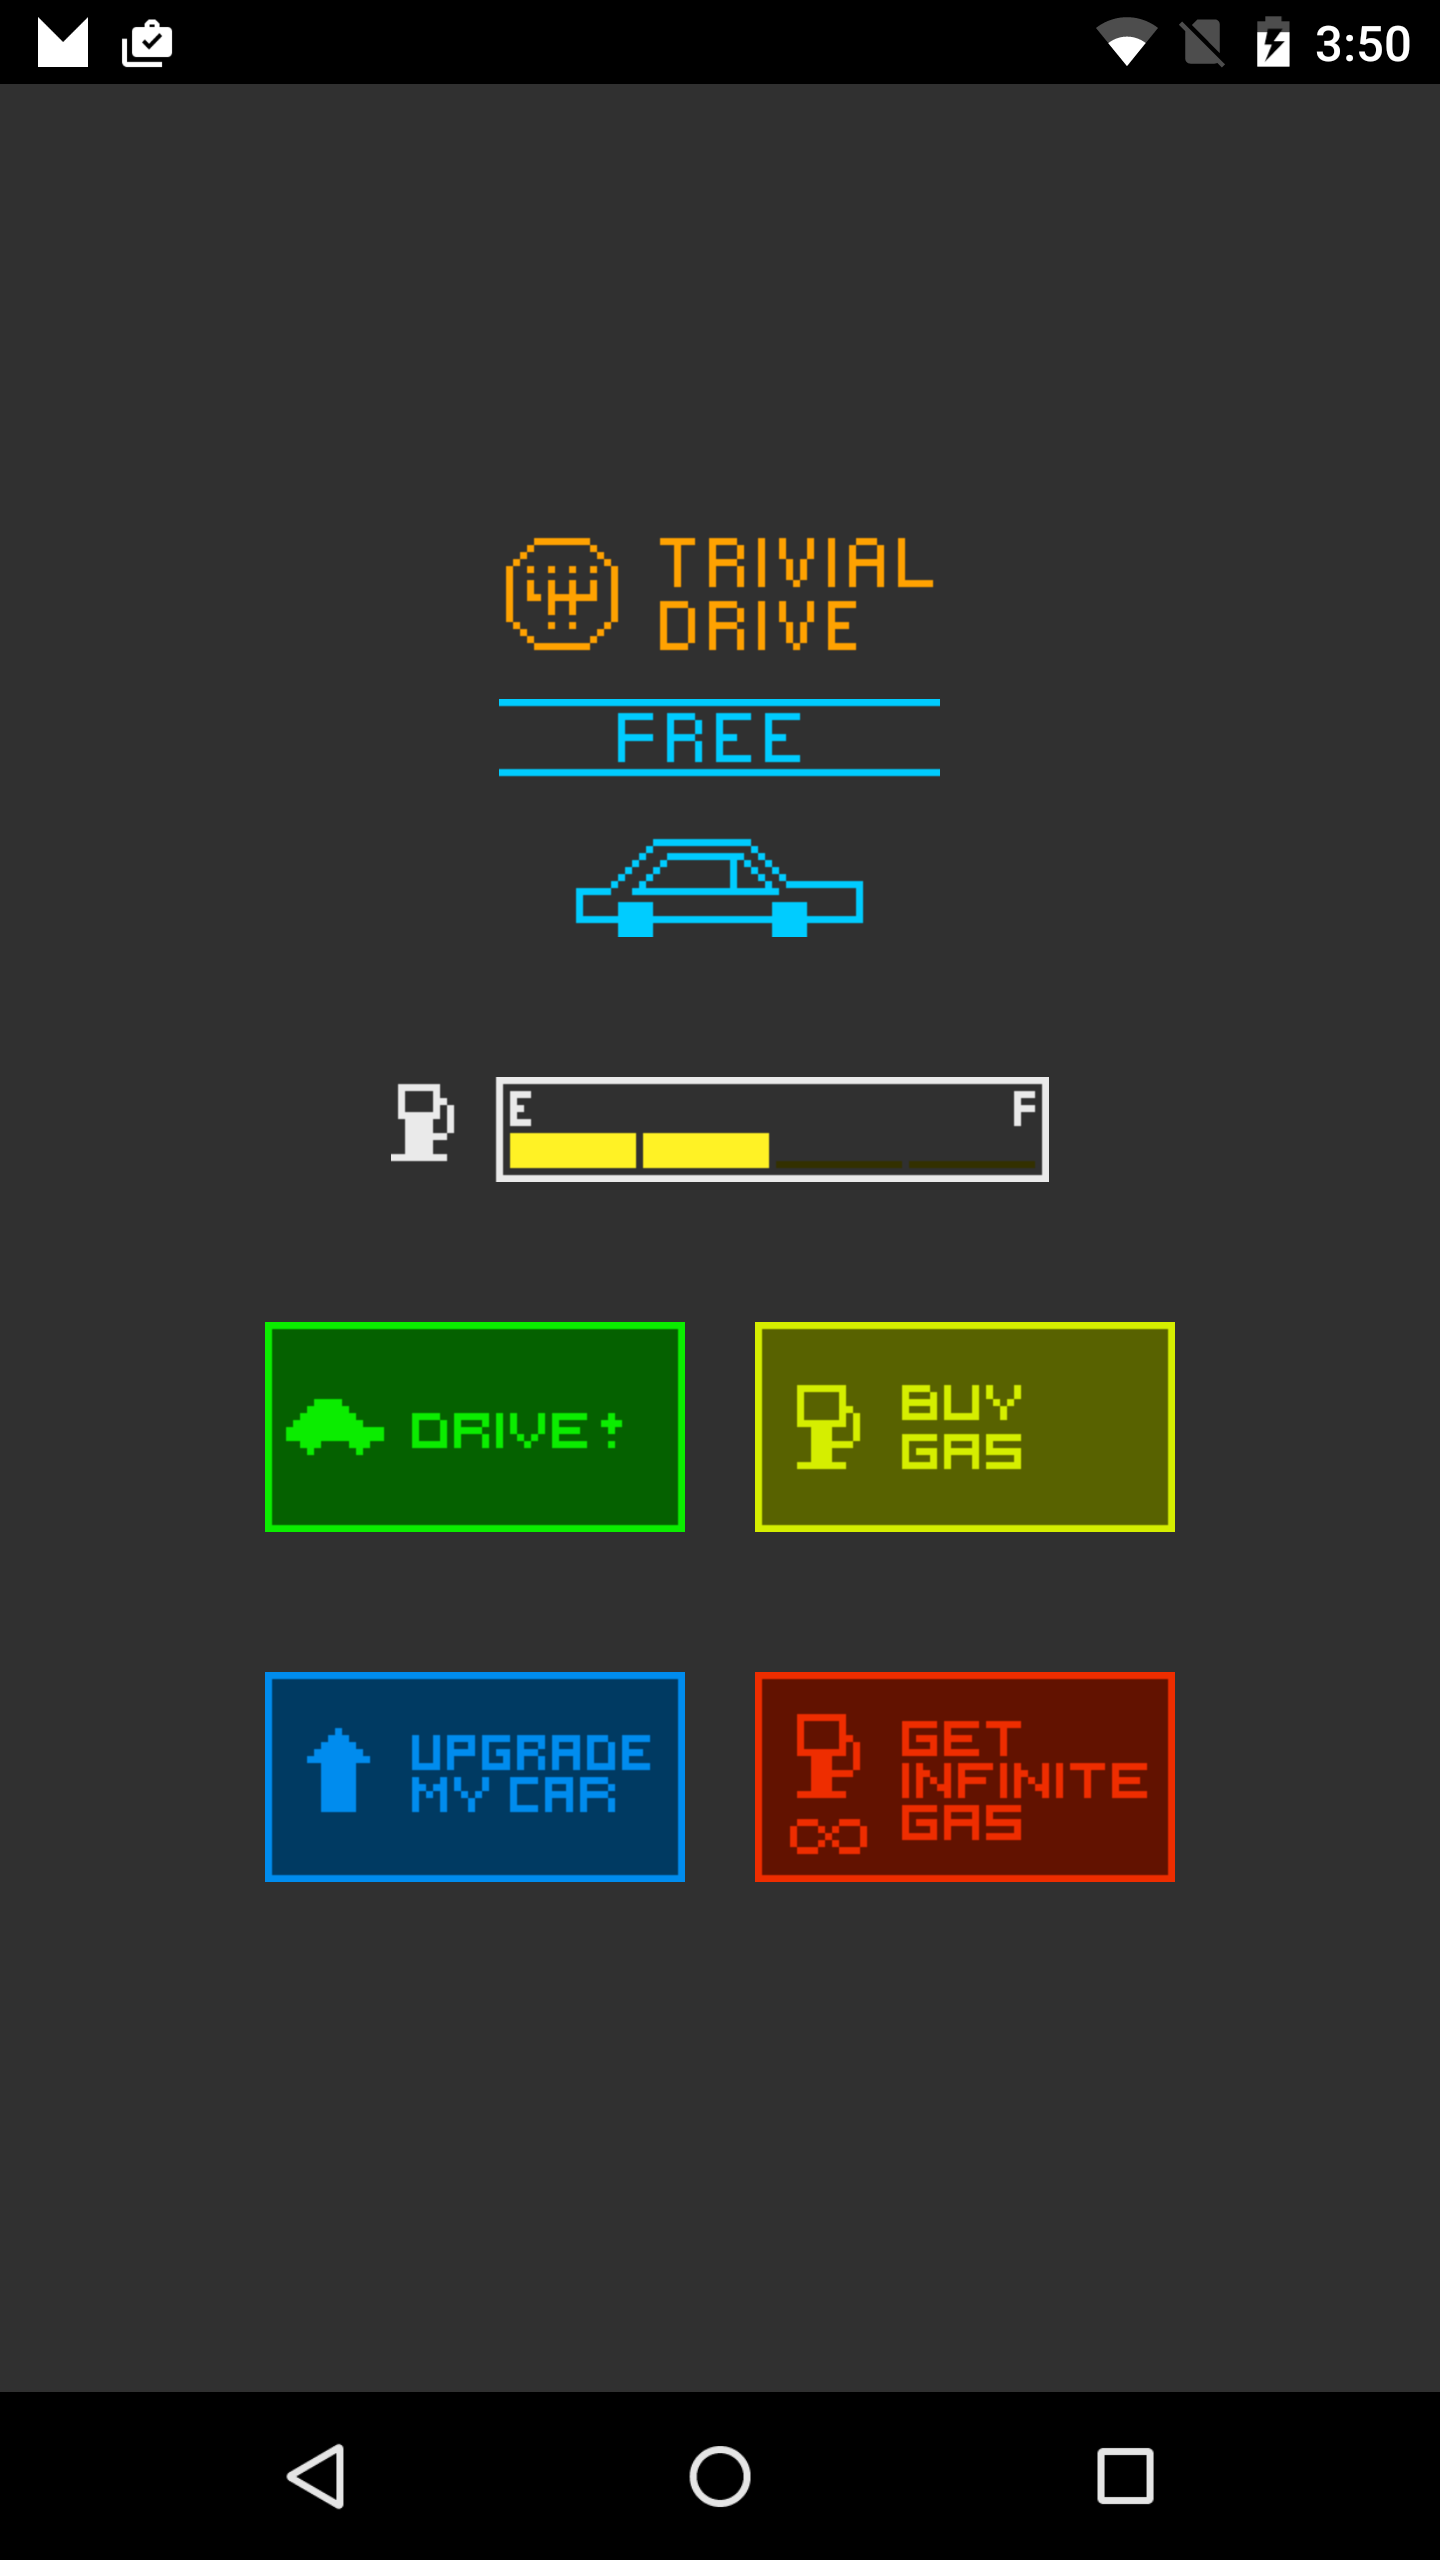
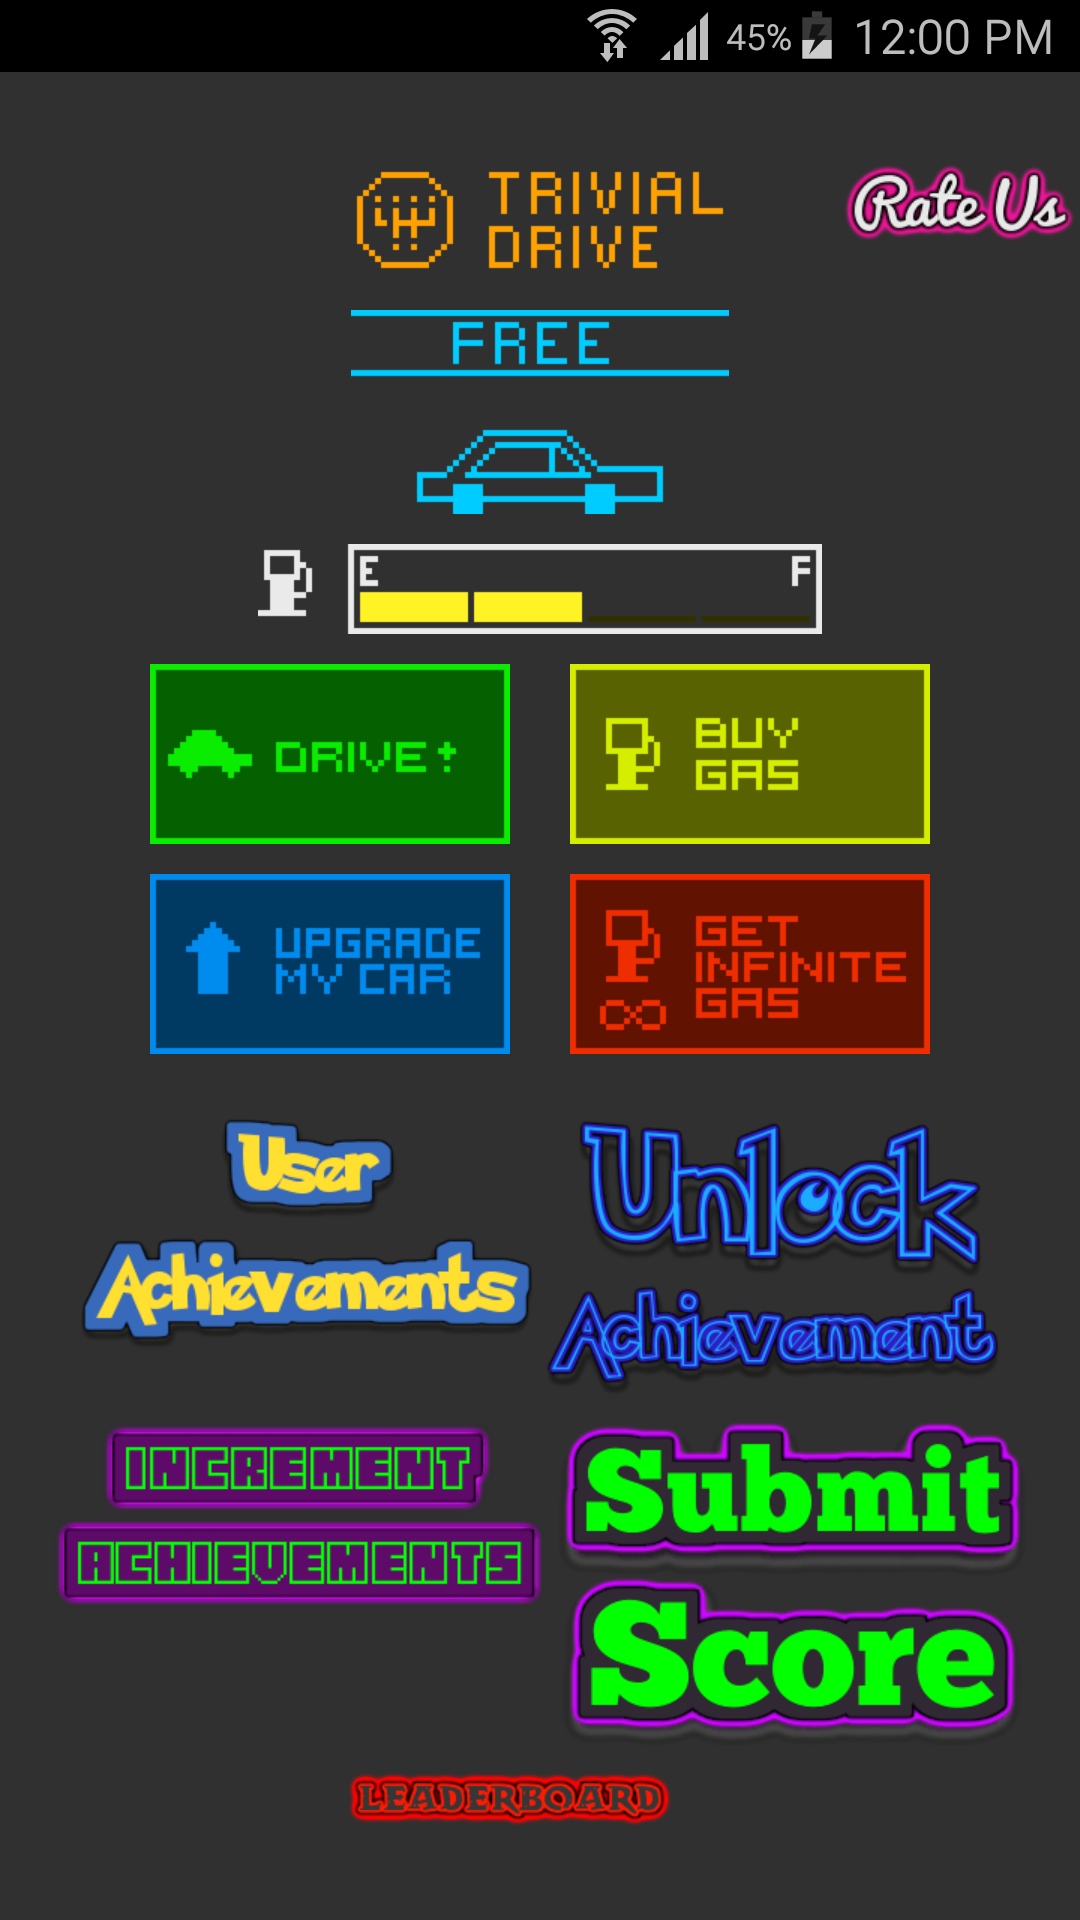
rate us module obtained.

diff --git a/app/src/main/java/com/example/android/trivialdrivesample/MainActivity.java b/app/src/main/java/com/example/android/trivialdrivesample/MainActivity.java
@@ -24,6 +24,7 @@ import android.content.DialogInterface.OnClickListener;
 import android.content.Intent;
 import android.content.IntentFilter;
 import android.content.SharedPreferences;
+import android.net.Uri;
 import android.os.Bundle;
 import android.os.RemoteException;
 import android.support.annotation.NonNull;
@@ -648,9 +649,19 @@ public class MainActivity extends Activity implements IabBroadcastReceiver.IabBr
         return true;
     }
 
+
+    // When You wanted to open up rating and commenting page on BaziNama
+    public void onRateUsClicked(View arg0) {
+        Intent intent = new Intent(Intent.ACTION_EDIT);
+        intent.setData(Uri.parse("bazinamaplus://details?id=" + BuildConfig.APPLICATION_ID));
+        intent.setPackage("com.yaramobile.bazinamastore");
+        startActivity(intent);
+    }
+
     // Drive button clicked. Burn gas!
     public void onDriveButtonClicked(View arg0) {
         Log.d(TAG, "Drive button clicked.");
+
         if (!mSubscribedToInfiniteGas && mTank <= 0)
             alert("Oh, no! You are out of gas! Try buying some!");
         else {
@@ -660,6 +671,7 @@ public class MainActivity extends Activity implements IabBroadcastReceiver.IabBr
             updateUi();
             Log.d(TAG, "Vrooom. Tank is now " + mTank);
         }
+
     }
 
     // We're being destroyed. It's important to dispose of the helper here!

diff --git a/bazinama-inappbilling-library/src/main/java/com/yara/bazinamainappbillinglibrary/IabHelper.java b/bazinama-inappbilling-library/src/main/java/com/yara/bazinamainappbillinglibrary/IabHelper.java
@@ -475,8 +475,10 @@ public class IabHelper {
             mRequestCode = requestCode;
             mPurchaseListener = listener;
             mPurchasingItemType = itemType;
-            act.startIntentSenderForResult(pendingIntent.getIntentSender(),
-                    requestCode, new Intent(),
+            act.startIntentSenderForResult(
+                    pendingIntent.getIntentSender(),
+                    requestCode,
+                    new Intent(),
                     Integer.valueOf(0),
                     Integer.valueOf(0),
                     Integer.valueOf(0));
